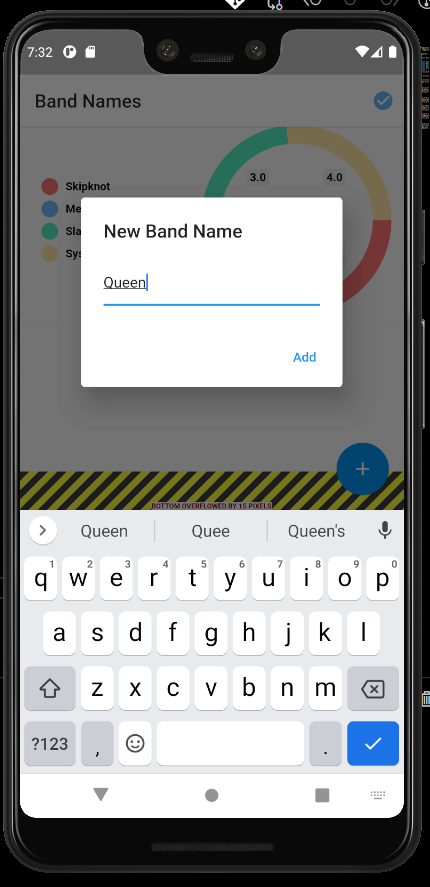
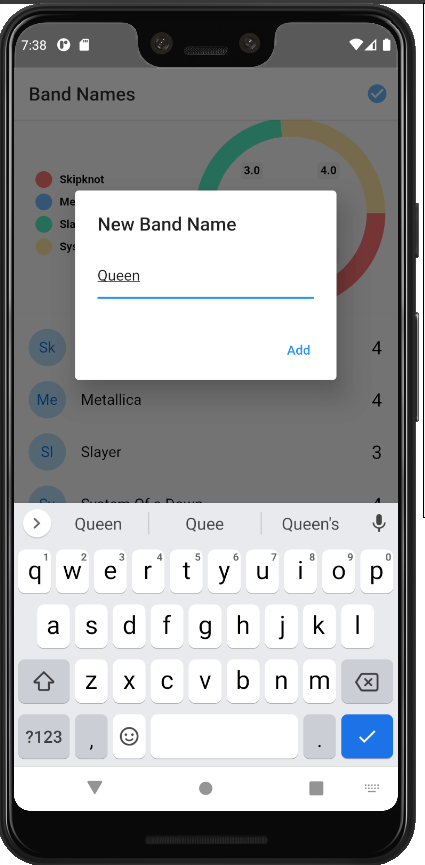
Add screenshots

diff --git a/lib/pages/home.dart b/lib/pages/home.dart
@@ -58,9 +58,6 @@ class _HomePageState extends State<HomePage> {
         children: [
           _showGraph(),
           Divider(),
-          Container(
-            height: 10,
-          ),
           Expanded(
             child: ListView.builder(
                 itemCount: bands.length,
@@ -76,6 +73,7 @@ class _HomePageState extends State<HomePage> {
           addNexBand();
         },
       ),
+      resizeToAvoidBottomInset: false,
     );
   }
 
